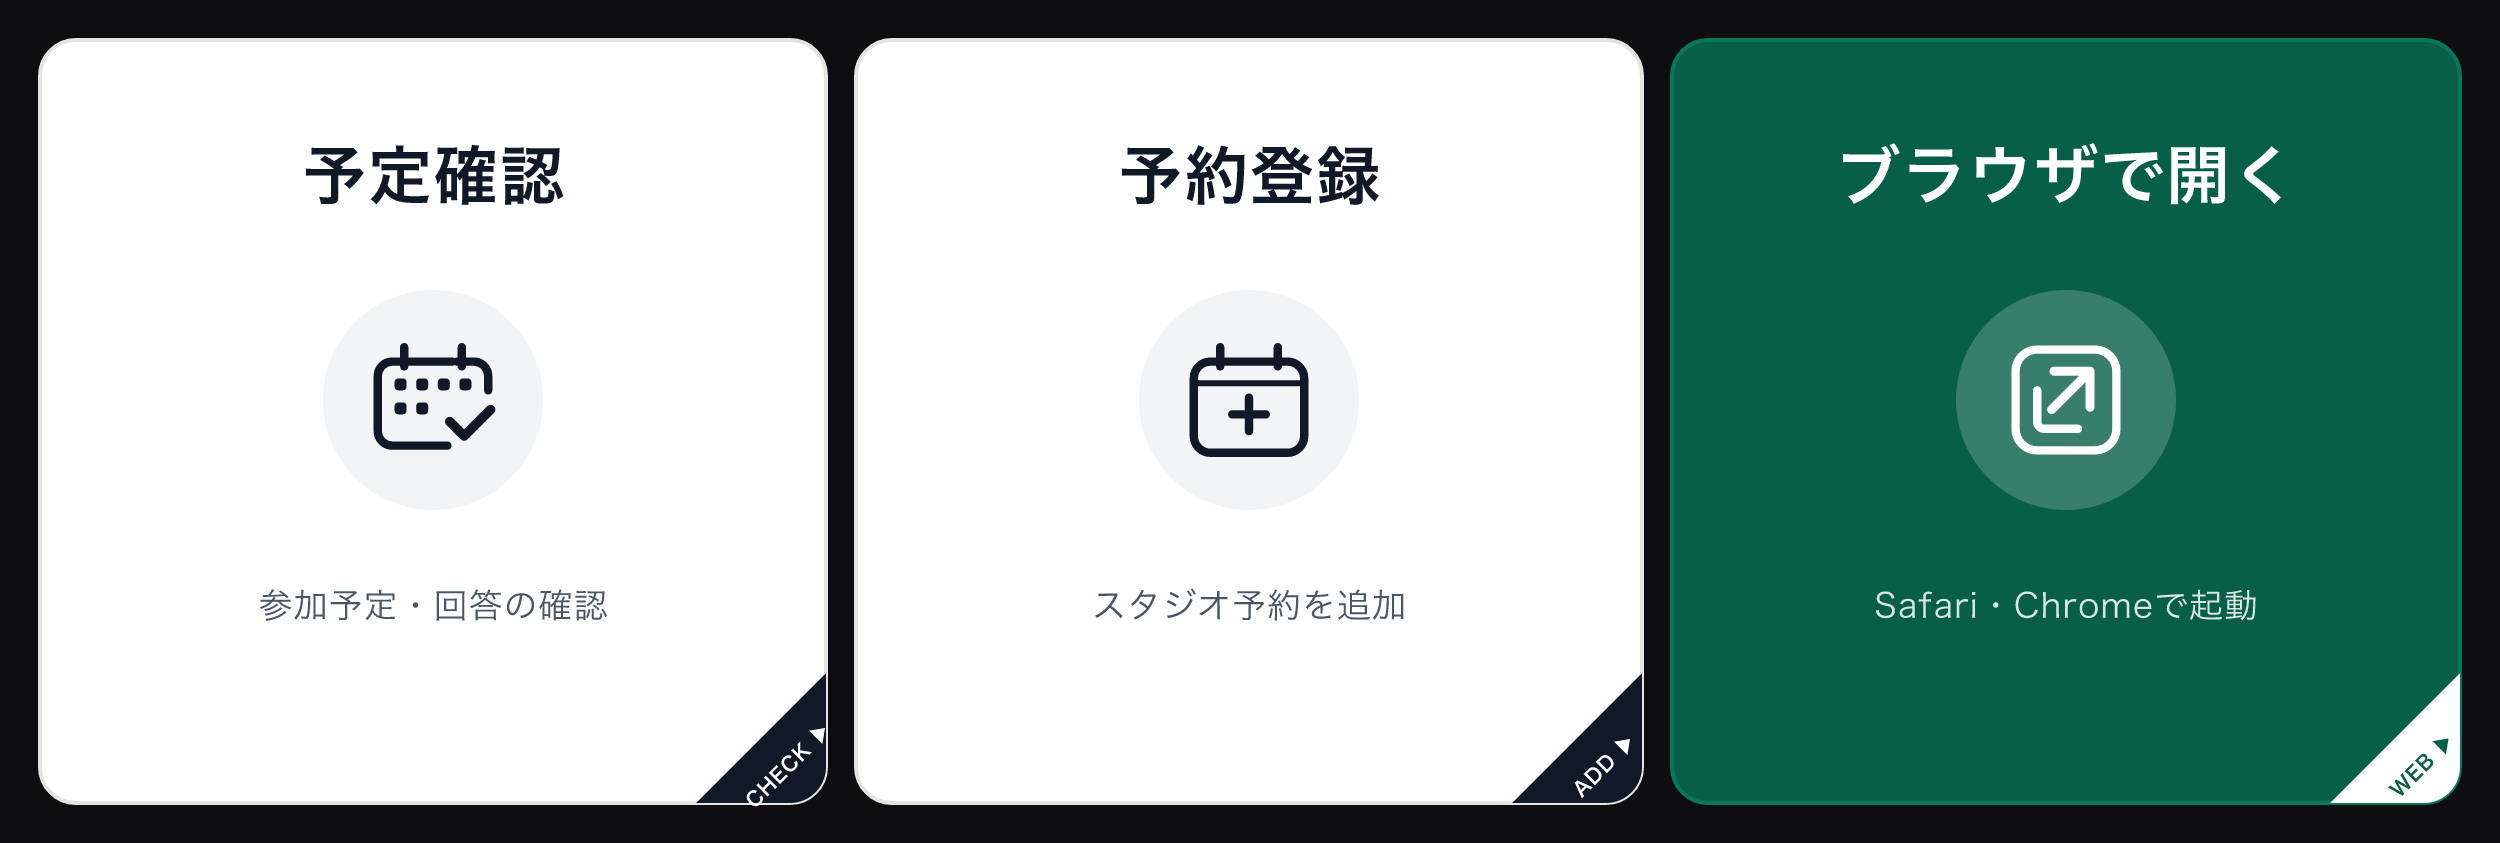
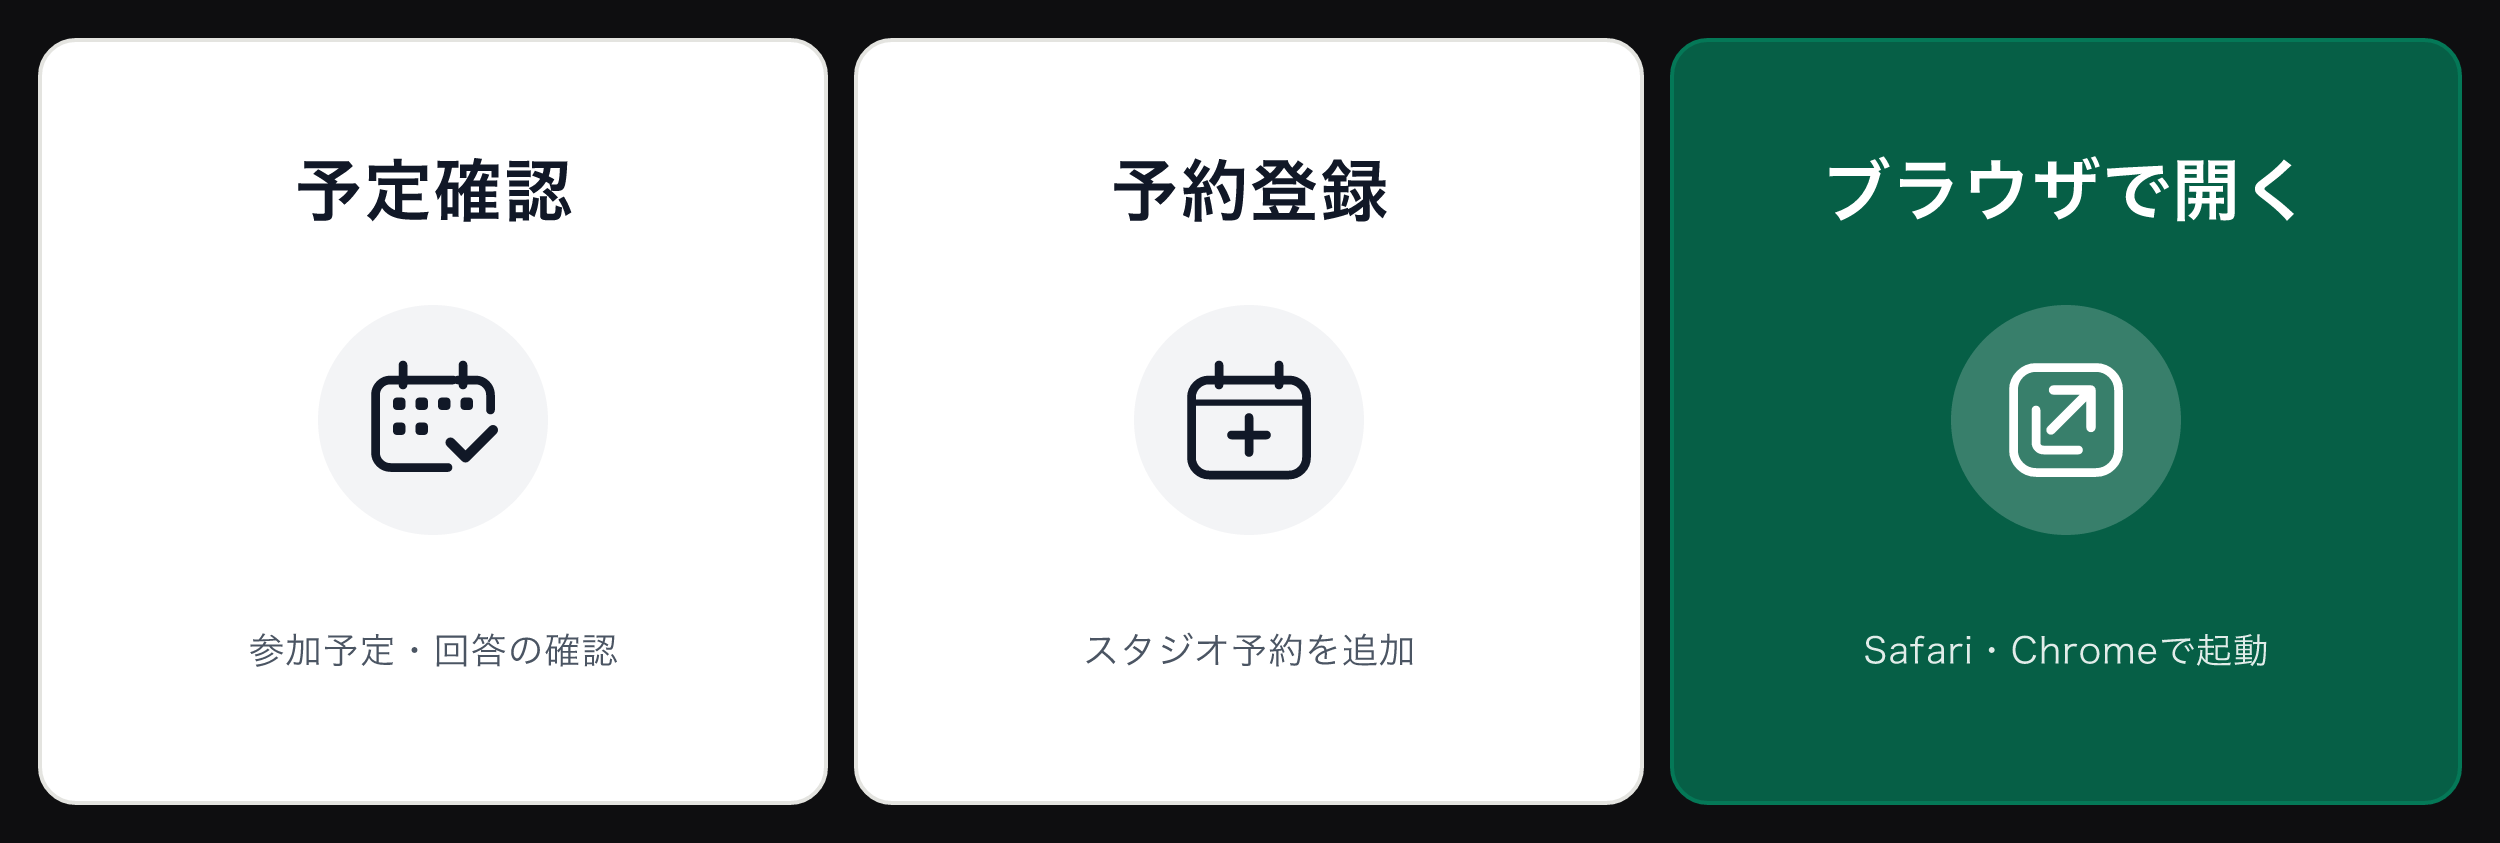
fix(richmenu): remove corner badges, update glossary, test area coverage, and guide setup

diff --git a/apps/gas/test/app.test.ts b/apps/gas/test/app.test.ts
@@ -849,12 +849,28 @@ describe('リッチメニュー', () => {
     expect(def.chatBarText).toBe('メニュー');
     expect(def.areas).toEqual([
       { bounds: { x: 0, y: 0, width: 833, height: 843 }, action: { type: 'uri', label: '予定確認', uri: 'https://liff.line.me/1234567890-abcdefgh' } },
+      // apps/liff/src/main.tsx の views.register (/register) に対応
       { bounds: { x: 833, y: 0, width: 834, height: 843 }, action: { type: 'uri', label: '予約登録', uri: 'https://liff.line.me/1234567890-abcdefgh?view=register' } },
       { bounds: { x: 1667, y: 0, width: 833, height: 843 }, action: { type: 'uri', label: 'ブラウザで開く', uri: 'https://example.com/app/?openExternalBrowser=1' } },
     ]);
     // LINEの上限（バーの文字は14文字、ボタンのラベルは20文字まで）
     expect(def.chatBarText.length).toBeLessThanOrEqual(14);
     expect(def.areas.every((a) => a.action.label.length <= 20)).toBe(true);
+
+    // タップ領域が 2500 幅 × 843 高さを隙間・重複なく完全に覆っていることを検証
+    expect(def.areas[0].bounds.x).toBe(0);
+    expect(def.areas[1].bounds.x).toBe(def.areas[0].bounds.width);
+    expect(def.areas[2].bounds.x).toBe(def.areas[1].bounds.x + def.areas[1].bounds.width);
+    expect(def.areas[2].bounds.x + def.areas[2].bounds.width).toBe(2500);
+    expect(def.areas.every((a) => a.bounds.y === 0 && a.bounds.height === 843)).toBe(true);
+  });
+
+  it('liffId 省略時は appUrl をベースに URL を構築する', async () => {
+    const { richMenuDefinition } = await import('../src/app/richmenu');
+    const def = richMenuDefinition('https://example.com/app');
+    expect(def.areas[0].action.uri).toBe('https://example.com/app');
+    expect(def.areas[1].action.uri).toBe('https://example.com/app?view=register');
+    expect(def.areas[2].action.uri).toBe('https://example.com/app/?openExternalBrowser=1');
   });
 
   it('URL形式に応じた openExternalBrowser=1 の補完を正しく行う', async () => {

diff --git a/docs/glossary.md b/docs/glossary.md
@@ -88,7 +88,7 @@
 | スクショ | 読み取りに使う画像 | 画像 |
 | カレンダーに追加 | 予約情報をスマホのカレンダーに入れる | — |
 | 参加リンク | LINE を使わずに回答できるページのリンク | — |
-| 予定確認 / 予約登録 / ブラウザで開く | リッチメニューの3つのボタン。予定確認・予約登録はLINE内アプリ、ブラウザで開くは外部ブラウザを起動する | — |
+| 予定確認 / 予約登録 / ブラウザで開く | リッチメニューの3つのボタン。予定確認・予約登録はLINE内アプリ、ブラウザで開くは外部ブラウザを起動する。説明文は「参加予定・回答の確認」「スタジオ予約を追加」「Safari・Chromeで起動」 | アプリで見る、アプリを開く |
 | ログアウト | アプリのアカウントからログアウトする操作 | — |
 | LINEでログイン | ログアウト後に再度LINE認証でログインする操作 | — |
 | 要望 | アプリへの改善の声を管理者に送ること | — |
